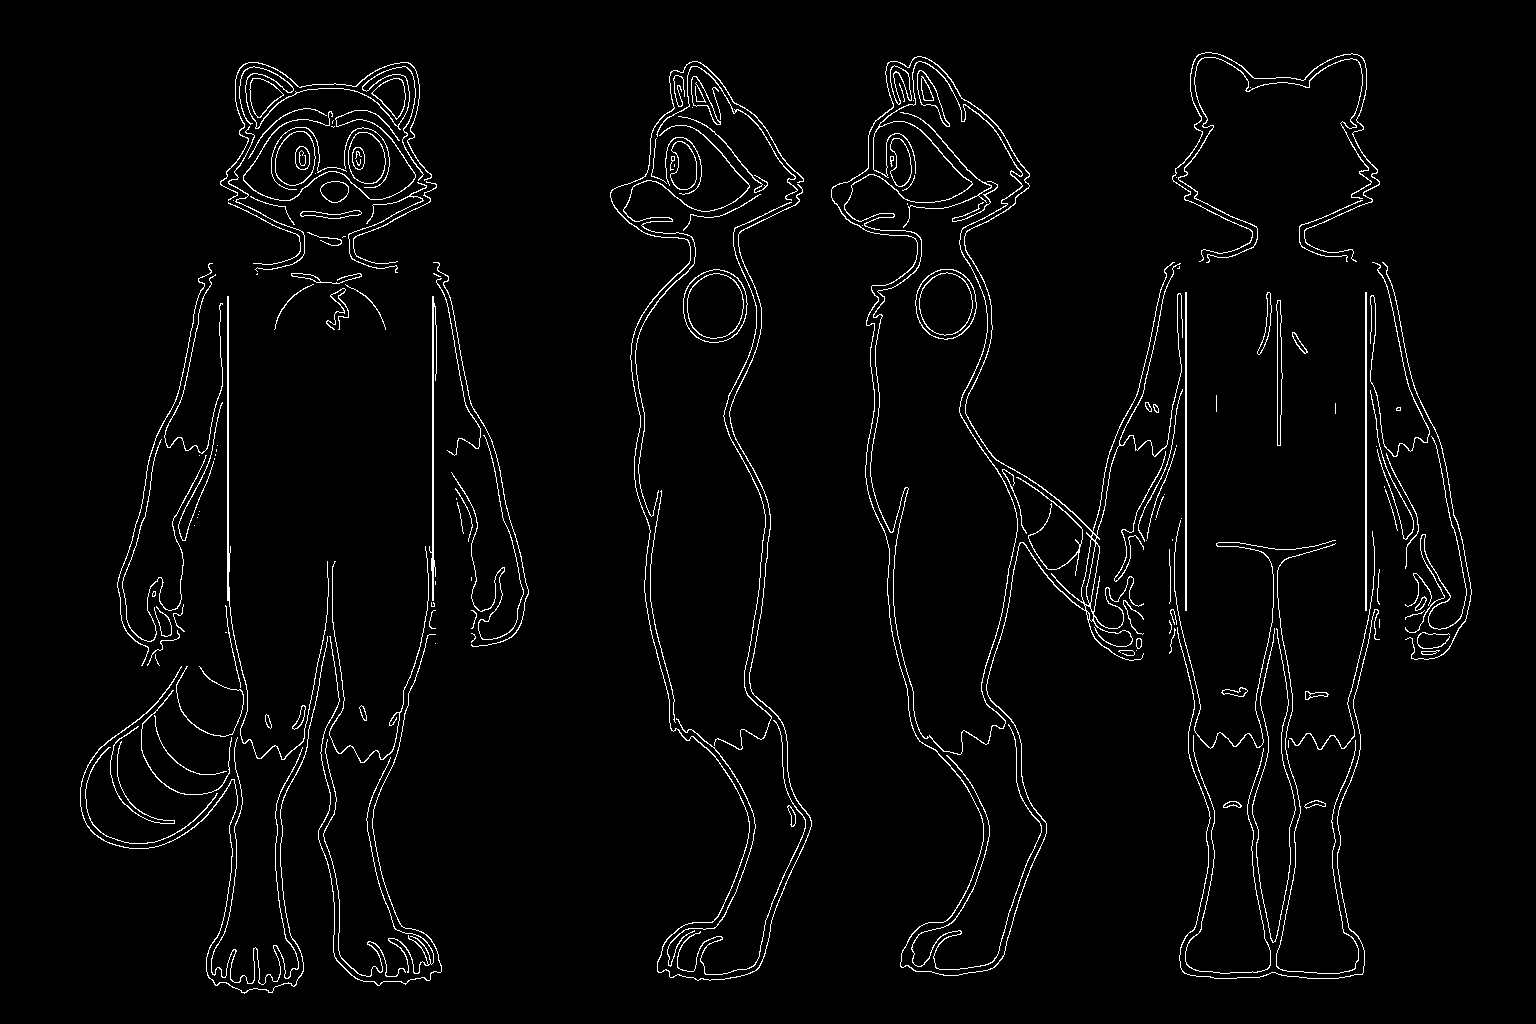
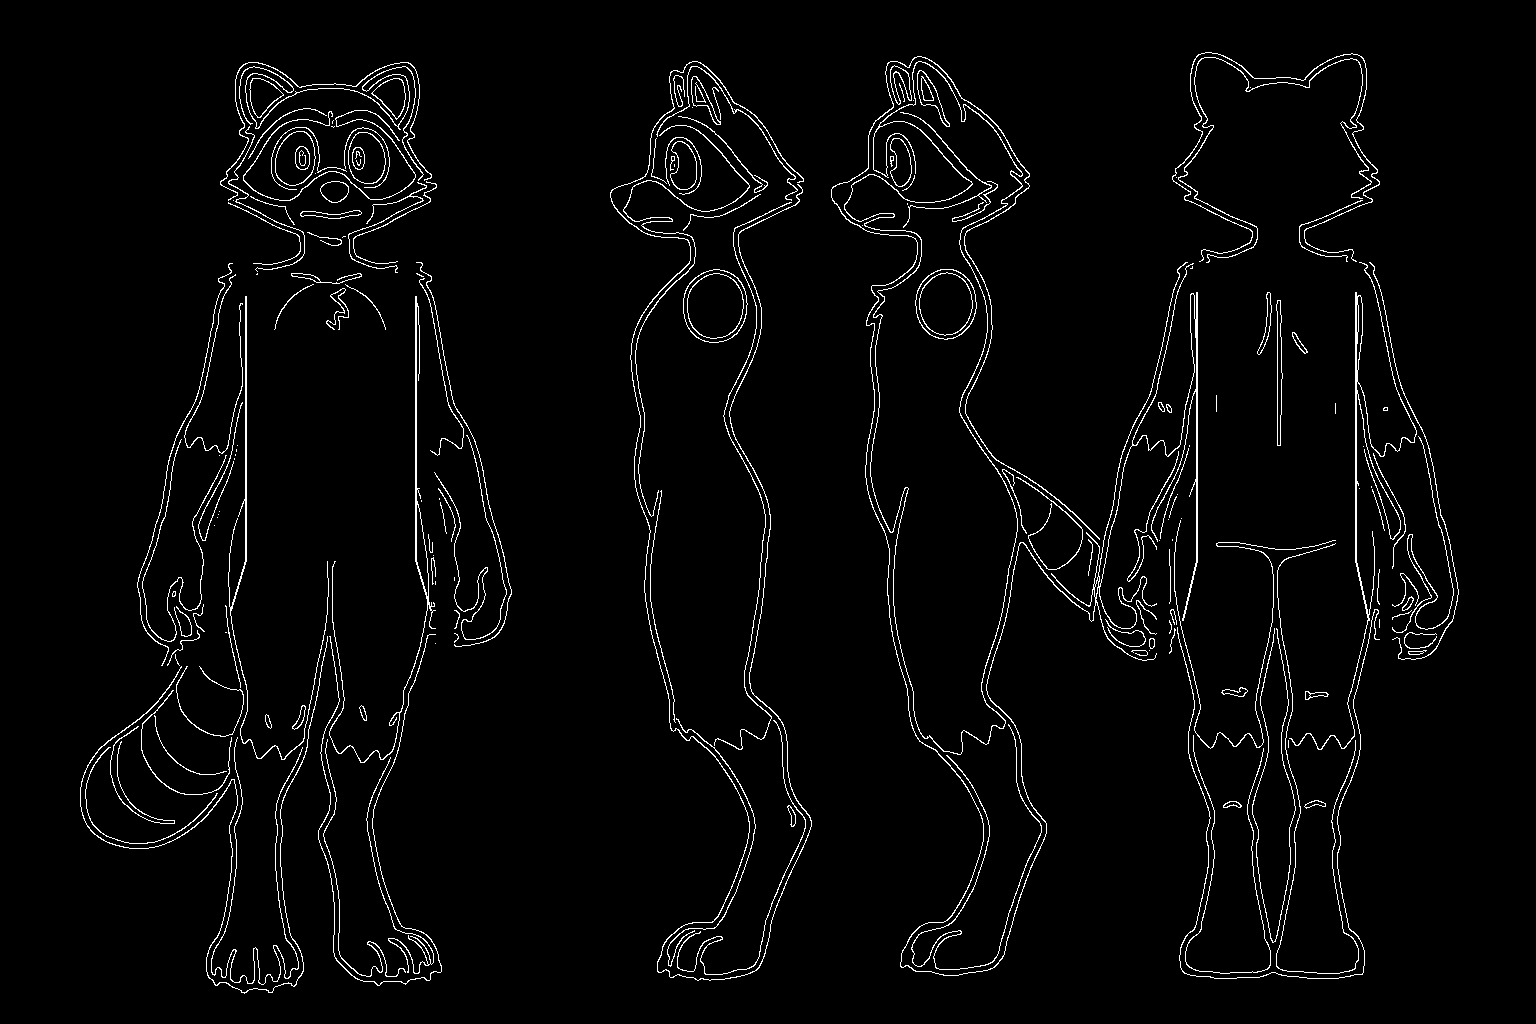
Set Enoch's shoulders halfway, drop the second side view, add v13
Shoulders fully in line with the thighs were too wide, so the guide now
sets them halfway between the original sheet and that. The sheet keeps
three poses (front, tailed side view in the centre, back); the side view
without the tail repeated the same angle.

New tools: relayout_guide.py re-spaces the poses on a guide, upscale.py
makes a palette-snapped high-res copy, and clean_gaps.py removes stray
lines under the arms. enoch_sheet_v13.png (and a 6144x4096 copy) is the
candidate sheet; it isn't locked yet.

diff --git a/art/tools/clean_gaps.py b/art/tools/clean_gaps.py
@@ -1,0 +1,75 @@
+"""Remove stray lines inside the gaps between the arms and the body.
+
+A stray line is a dark stroke with background on both sides (left and right). Real outlines always
+have fur on one side, so they are kept. Then the faint fringes the stroke leaves are cleared, and
+any pixel mostly surrounded by background (the stub where the stroke met an outline) is shaved
+off until none are left. Last, the gap itself is smoothed and its outline redrawn at an even
+thickness (--line, in pixels), so no bumps are left where a stroke used to join. Only the boxes
+given are touched.
+
+usage:
+  python clean_gaps.py <in.png> <out.png> x0,y0,x1,y1 [x0,y0,x1,y1 ...] [--reach 14]
+"""
+import argparse
+import numpy as np
+from PIL import Image
+from scipy import ndimage
+
+BG, LINE = np.array([250, 247, 239]), np.array([2, 3, 4])
+
+
+def main():
+    ap = argparse.ArgumentParser()
+    ap.add_argument("src"); ap.add_argument("out"); ap.add_argument("boxes", nargs="+")
+    ap.add_argument("--reach", type=int, default=14, help="how far to look left and right for background")
+    ap.add_argument("--line", type=int, default=8, help="outline thickness to redraw around each gap")
+    ap.add_argument("--smooth", type=int, default=8, help="radius for smoothing the gap's shape")
+    a = ap.parse_args()
+    im = np.asarray(Image.open(a.src).convert("RGB")).copy()
+    bg = np.abs(im.astype(int) - BG).sum(2) < 30
+    dark = np.abs(im.astype(int) - LINE).sum(2) < 120
+    total = 0
+    for b in a.boxes:
+        x0, y0, x1, y1 = map(int, b.split(","))
+        sub_bg, sub_dark = bg[y0:y1, x0:x1], dark[y0:y1, x0:x1]
+        H, W = sub_bg.shape
+        left = np.zeros_like(sub_bg); right = np.zeros_like(sub_bg)
+        for d in range(1, a.reach + 1):  # background somewhere within reach on each side
+            left[:, d:] |= sub_bg[:, :-d]; right[:, :-d] |= sub_bg[:, d:]
+        stray = sub_dark & left & right
+        # whole strokes only: keep pieces that are mostly stray
+        lab, n = ndimage.label(ndimage.binary_dilation(stray, iterations=1) & sub_dark)
+        for i in range(1, n + 1):
+            piece = lab == i
+            if stray[piece].mean() > 0.6 and piece.sum() > 40:
+                im[y0:y1, x0:x1][ndimage.binary_dilation(piece, iterations=1) & ~sub_bg] = BG
+                total += piece.sum()
+        s = im[y0:y1, x0:x1]
+        # fringes: thin non-line pixels lying inside the background
+        sbg = np.abs(s.astype(int) - BG).sum(2) < 30
+        sdark = np.abs(s.astype(int) - LINE).sum(2) < 120
+        s[ndimage.binary_closing(sbg, structure=np.ones((5, 5))) & ~sbg & ~sdark] = BG
+        # stubs: shave pixels mostly surrounded by background
+        for size, frac in ((11, 0.62), (15, 0.56)):
+            for _ in range(6):
+                sbg = np.abs(s.astype(int) - BG).sum(2) < 30
+                kill = ~sbg & (ndimage.uniform_filter(sbg.astype(float), size) > frac)
+                if not kill.any(): break
+                s[kill] = BG
+        # redraw: the gap is the background in the box that doesn't touch its left or right side
+        sbg = np.abs(s.astype(int) - BG).sum(2) < 30
+        lab, n = ndimage.label(sbg)
+        side = set(lab[:, 0]) | set(lab[:, -1])
+        gap = np.isin(lab, [i for i in range(1, n + 1) if i not in side])
+        r = a.smooth; yy, xx = np.mgrid[-r:r + 1, -r:r + 1]; disk = xx ** 2 + yy ** 2 <= r * r
+        padded = np.pad(gap, r + 1, mode="edge")
+        smooth = ndimage.binary_closing(padded, structure=disk)[r + 1:-r - 1, r + 1:-r - 1]
+        band = (ndimage.distance_transform_edt(~smooth) <= a.line) & ~smooth
+        s[smooth] = BG
+        s[band] = LINE
+    Image.fromarray(im).save(a.out)
+    print("removed", total, "px")
+
+
+if __name__ == "__main__":
+    main()

diff --git a/art/tools/upscale.py b/art/tools/upscale.py
@@ -1,0 +1,50 @@
+"""Upscale a finished sheet with a Forge upscaler, then snap it back to the palette.
+
+The upscaler keeps lines crisp; the snap keeps the colours exactly the sheet's flat palette.
+The unsnapped result is saved next to the output as <out>.raw.png.
+
+usage:
+  python upscale.py <in.png> <out.png> [--scale 2] [--upscaler "R-ESRGAN 4x+ Anime6B"]
+"""
+import argparse, base64, io, json, pathlib, urllib.request
+import numpy as np
+from PIL import Image
+
+FORGE = "http://127.0.0.1:7860"
+PALETTE = np.array([(72, 194, 195), (42, 67, 101), (208, 255, 250), (2, 3, 4), (250, 247, 239),
+                    (255, 255, 255), (141, 63, 76)], np.int32)  # same as final_pass.py
+
+
+def main():
+    ap = argparse.ArgumentParser()
+    ap.add_argument("src"); ap.add_argument("out")
+    ap.add_argument("--scale", type=float, default=2); ap.add_argument("--upscaler", default="R-ESRGAN 4x+ Anime6B")
+    a = ap.parse_args()
+    buf = io.BytesIO(); Image.open(a.src).convert("RGB").save(buf, "PNG")
+    payload = {"image": base64.b64encode(buf.getvalue()).decode(), "resize_mode": 0,
+               "upscaling_resize": a.scale, "upscaler_1": a.upscaler}
+    req = urllib.request.Request(f"{FORGE}/sdapi/v1/extra-single-image", data=json.dumps(payload).encode(),
+                                 headers={"Content-Type": "application/json"})
+    res = json.load(urllib.request.urlopen(req, timeout=3600))
+    img = Image.open(io.BytesIO(base64.b64decode(res["image"]))).convert("RGB")
+    img.save(pathlib.Path(a.out).with_suffix(".raw.png"))
+    px = np.asarray(img)
+    # white and iris only where the source already has them (eyes, inner ears), so the
+    # upscaler's light fringes along outlines don't snap to white
+    ref = np.asarray(Image.open(a.src).convert("RGB").resize(img.size, Image.NEAREST)).astype(np.int32)
+    out = np.empty_like(px)
+    for y in range(0, px.shape[0], 256):  # in strips to keep memory low
+        s = px[y:y + 256].astype(np.int32)
+        d = ((s[:, :, None, :] - PALETTE[None, None]) ** 2).sum(3)
+        r = ref[y:y + 256]
+        for k in (5, 6):
+            near = np.abs(r - PALETTE[k]).sum(2) < 30
+            near = near | np.roll(near, 1, 0) | np.roll(near, -1, 0) | np.roll(near, 1, 1) | np.roll(near, -1, 1)
+            d[:, :, k][~near] = 1 << 30
+        out[y:y + 256] = PALETTE[d.argmin(2)].astype(np.uint8)
+    Image.fromarray(out).save(a.out, optimize=True)
+    print(a.out, img.size)
+
+
+if __name__ == "__main__":
+    main()

diff --git a/art/tools/square_guide.py b/art/tools/square_guide.py
@@ -9,7 +9,8 @@ Presets:
   thighs  for enoch_character_sheet.png: straight sides from the armpits down to the knees, so the
           thighs line up with the shoulders instead of flaring out at the hips.
   shoulders  for enoch_character_sheet.png: the other way round. Keeps the thighs, moves each arm
-          outward and runs the torso sides straight down from the wider shoulders to the thighs.
+          outward and runs the torso sides straight down from wider shoulders, easing out to the
+          thighs. Set halfway between the original sheet and shoulders fully in line with the thighs.
 
 usage:
   python square_guide.py <sheet.png> <guide_out.png> <preview_out.png> [--preset torso|thighs]
@@ -48,24 +49,24 @@ SHIFTS = {
     "shoulders": [
         # front view
         ([(140, 262), (252, 262), (262, 300), (262, 400), (256, 450), (246, 490), (232, 530), (224, 545),
-          (224, 665), (140, 665)], -40),
+          (224, 665), (140, 665)], -20),
         ([(398, 262), (520, 262), (520, 665), (436, 665), (436, 545), (426, 530), (420, 490), (412, 450),
-          (400, 400), (398, 300)], 35),
+          (400, 400), (398, 300)], 18),
         # back view
         ([(1100, 262), (1205, 262), (1207, 300), (1207, 400), (1200, 450), (1190, 490), (1176, 530),
-          (1168, 545), (1168, 665), (1100, 665)], -25),
+          (1168, 545), (1168, 665), (1100, 665)], -12),
         ([(1345, 262), (1460, 262), (1460, 665), (1380, 665), (1380, 545), (1372, 530), (1360, 490),
-          (1352, 450), (1345, 400), (1345, 300)], 25),
+          (1352, 450), (1345, 400), (1345, 300)], 12),
     ],
 }
 PRESETS["shoulders"] = [
     # front view: old torso sides and belly patch out, straight sides from shoulder to thigh in
-    ((228, 300, 272, 545), [(227, 296), (227, 600)]),
-    ((388, 300, 431, 545), [(432, 296), (432, 600)]),
+    ((246, 300, 272, 545), [(245, 296), (245, 560), (230, 610)]),
+    ((388, 300, 414, 545), [(415, 296), (415, 560), (430, 610)]),
     ((272, 330, 388, 560), None),
     # back view
-    ((1186, 295, 1215, 545), [(1185, 292), (1185, 610)]),
-    ((1336, 295, 1364, 545), [(1365, 292), (1365, 610)]),
+    ((1197, 295, 1215, 545), [(1196, 292), (1196, 560), (1182, 620)]),
+    ((1336, 295, 1354, 545), [(1355, 292), (1355, 560), (1368, 620)]),
 ]
 
 

diff --git a/art/tools/relayout_guide.py b/art/tools/relayout_guide.py
@@ -1,0 +1,47 @@
+"""Drop a pose from an edge guide and re-space the rest, with the middle pose centred.
+
+Edge pixels belong to a pose by column (bounds below, for enoch_character_sheet.png at 1536x1024;
+the side view's tail tip and the back view's hand meet at x=1100). The dropped pose is erased.
+With three poses left, the middle one is centred on the sheet and the outer two are centred in
+the space on either side, so every pose has clear space around it.
+
+usage:
+  python relayout_guide.py <guide.png> <out.png> [--drop 1]
+"""
+import argparse
+import numpy as np
+from PIL import Image
+
+# pose columns: front, side without tail, side with tail, back
+BOUNDS = [0, 560, 820, 1100, 1536]
+
+
+def main():
+    ap = argparse.ArgumentParser()
+    ap.add_argument("guide"); ap.add_argument("out")
+    ap.add_argument("--drop", type=int, default=1, help="index of the pose to remove (0 = front)")
+    a = ap.parse_args()
+    e = np.asarray(Image.open(a.guide).convert("L")) > 0
+    H, W = e.shape
+    poses = []
+    for k in range(len(BOUNDS) - 1):
+        if k == a.drop: continue
+        p = np.zeros_like(e); p[:, BOUNDS[k]:BOUNDS[k + 1]] = e[:, BOUNDS[k]:BOUNDS[k + 1]]
+        poses.append(p)
+    spans = [np.nonzero(p.any(0))[0][[0, -1]] for p in poses]
+    widths = [x1 - x0 + 1 for x0, x1 in spans]
+    if len(poses) == 3:
+        mid = (W - widths[1]) // 2
+        starts = [(mid - widths[0]) // 2, mid, mid + widths[1] + (W - mid - widths[1] - widths[2]) // 2]
+    else:
+        gap = (W - sum(widths)) / (len(poses) + 1); starts = []; x = gap
+        for w in widths: starts.append(int(round(x))); x += w + gap
+    out = np.zeros_like(e)
+    for p, (x0, x1), s, w in zip(poses, spans, starts, widths):
+        out |= np.roll(p, s - x0, axis=1)
+        print(f"pose at {x0}-{x1} -> {s}-{s + w - 1}")
+    Image.fromarray((out * 255).astype(np.uint8)).save(a.out)
+
+
+if __name__ == "__main__":
+    main()

diff --git a/art/enoch-sheet/enoch-rules.md b/art/enoch-sheet/enoch-rules.md
@@ -23,7 +23,7 @@ These images are reference art. The final design is still the creative director'
 - Lean and wiry, slightly muscular: toned arms and chest, not bulky.
 - Wide shoulders, narrow straight hips. No popping or swaying hips.
 - **Square body:** from shoulders to hips the sides of the torso run in a mostly straight line. No pinched waist and no hourglass curve. This is the main thing that makes him read as male.
-- **Shoulders as wide as the thighs:** the shoulders line up with the outer edge of the thighs, so one straight line runs from shoulder to knee. Widen the shoulders to get there; don't slim the thighs.
+- **Shoulders nearly as wide as the thighs:** the sides run almost straight from shoulder to knee, easing out a little at the thighs. Widen the shoulders to get there; don't slim the thighs. Fully in line with the thighs was too wide; the guide ([square_guide.py](../tools/square_guide.py) `--preset shoulders`) sets them halfway between the original sheet and that.
 - Upright, rigid posture: squared shoulders, weight on both feet, arms straight at his sides.
 
 ## Proportions
@@ -91,7 +91,7 @@ Sampled from flat areas of her sheet, not averaged over the whole image (averagi
 
 ## Sheet layout
 
-- Four poses: front, three-quarter, side (facing left), back.
+- Three poses: front, side (facing left, with the tail showing), back. The side view sits in the centre of the sheet. A second side view without the tail was dropped: it repeated the same angle.
 - One figure per pose, each clearly separated by empty space. Nothing overlaps.
 - Plain light background. No text, color swatches, icons, or props.
 
@@ -100,7 +100,7 @@ Sampled from flat areas of her sheet, not averaged over the whole image (averagi
 Check every image before it's used:
 
 1. Calm face, slight smile, not angry.
-2. Square body: sides straight from shoulders to hips, no waist, and shoulders as wide as the thighs.
+2. Square body: sides straight from shoulders to hips, no waist, and shoulders nearly as wide as the thighs.
 3. Adult proportions: head about 0.19 of his height, short arms, long legs (see Proportions).
 4. On his toes, not flat-footed.
 5. Tail: four navy rings, from a navy base to a navy tip.

diff --git a/art/raccoon-style-guide.md b/art/raccoon-style-guide.md
@@ -61,7 +61,7 @@ Sampled from flat areas of the female reference. Every raccoon uses exactly thes
 
 ### Sheet layout
 
-- Front, side, and back views. Each figure is clearly separated, with nothing overlapping.
+- Three views: front, side (with the tail showing), and back, with the side view in the centre. One side view only. Each figure is clearly separated, with nothing overlapping.
 - Plain off-white background. No text, props, or clothing on a base-body sheet.
 - A plain cartoon body with no anatomical detail.
 
@@ -73,7 +73,7 @@ Everything above is shared. These features are what make a raccoon read as femal
 | --- | --- | --- |
 | **Torso** | Hourglass: the waist pinches in, and the hips flare out wider than the waist. | **Square:** the sides run in a mostly straight line from shoulders to hips. No waist. |
 | **Hips and thighs** | Wide hips and full thighs. | Narrow, straight hips. |
-| **Shoulders** | Narrower than the hips. | **Wide: the shoulders line up with the outer edge of the thighs**, so one straight line runs from shoulder to knee. |
+| **Shoulders** | Narrower than the hips. | **Wide:** nearly as wide as the thighs. The sides run almost straight from shoulder to knee, easing out a little at the thighs. |
 | **Sleeves** (where the navy on the arm meets the teal) | A flat, even edge. | A zigzag fur edge. |
 | **Height** | The baseline. | About 5% taller than the female. |
 | **Eyes** | Large dark pupils with eyelashes on the upper lids. | Smaller pupils. No eyelashes. |
@@ -93,5 +93,5 @@ Check every new raccoon image against this before it's used.
 4. Tail: four navy rings from base to tip.
 5. Shoulder tufts, and a mint chest with a fur flick.
 6. Eyes: red-brown lower pupil with a white shine.
-7. Body matches the sex: hourglass and flat sleeve edges for female; square torso, shoulders as wide as the thighs, and zigzag sleeve edges for male.
+7. Body matches the sex: hourglass and flat sleeve edges for female; square torso, shoulders nearly as wide as the thighs, and zigzag sleeve edges for male.
 8. Clean, flat style with nothing extra on the sheet.
